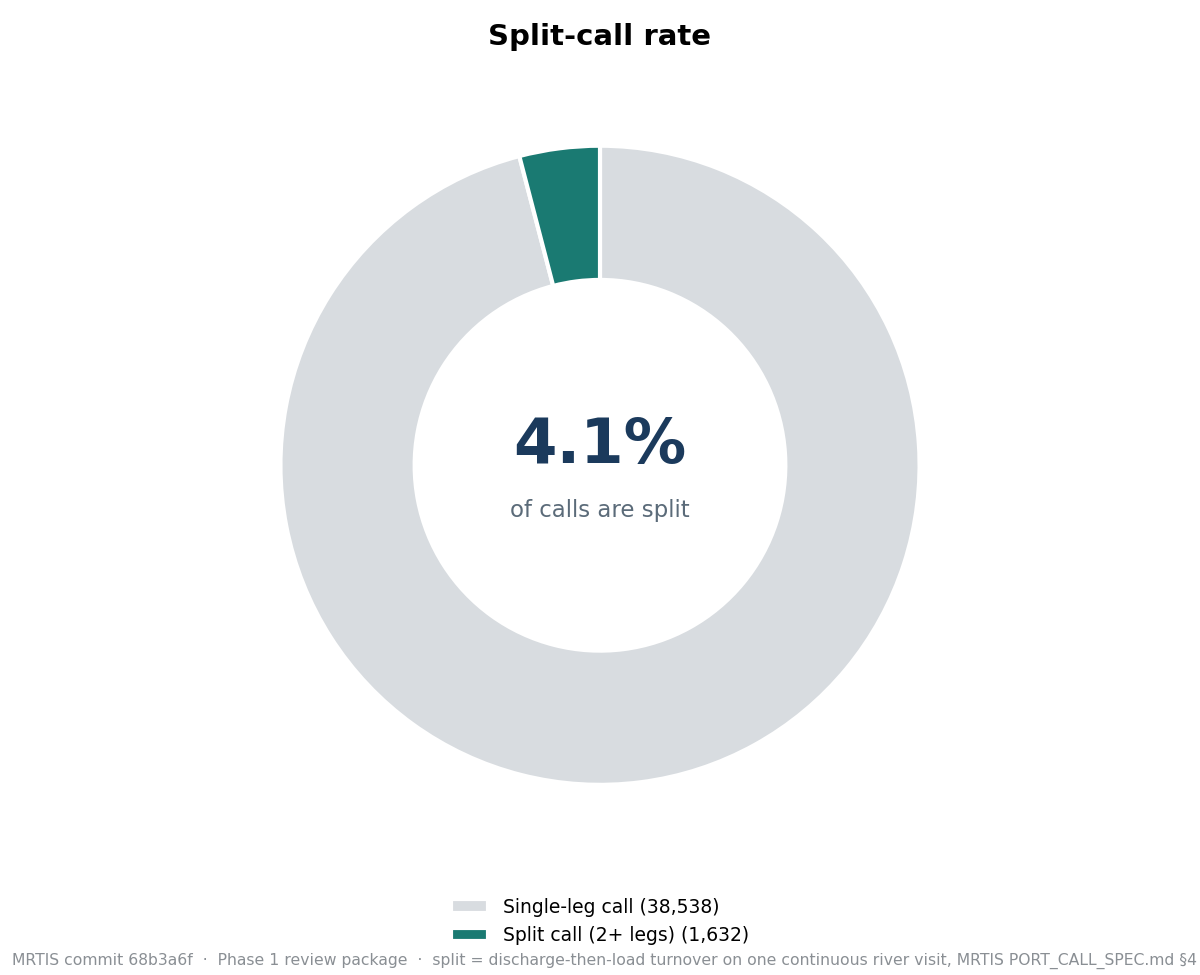
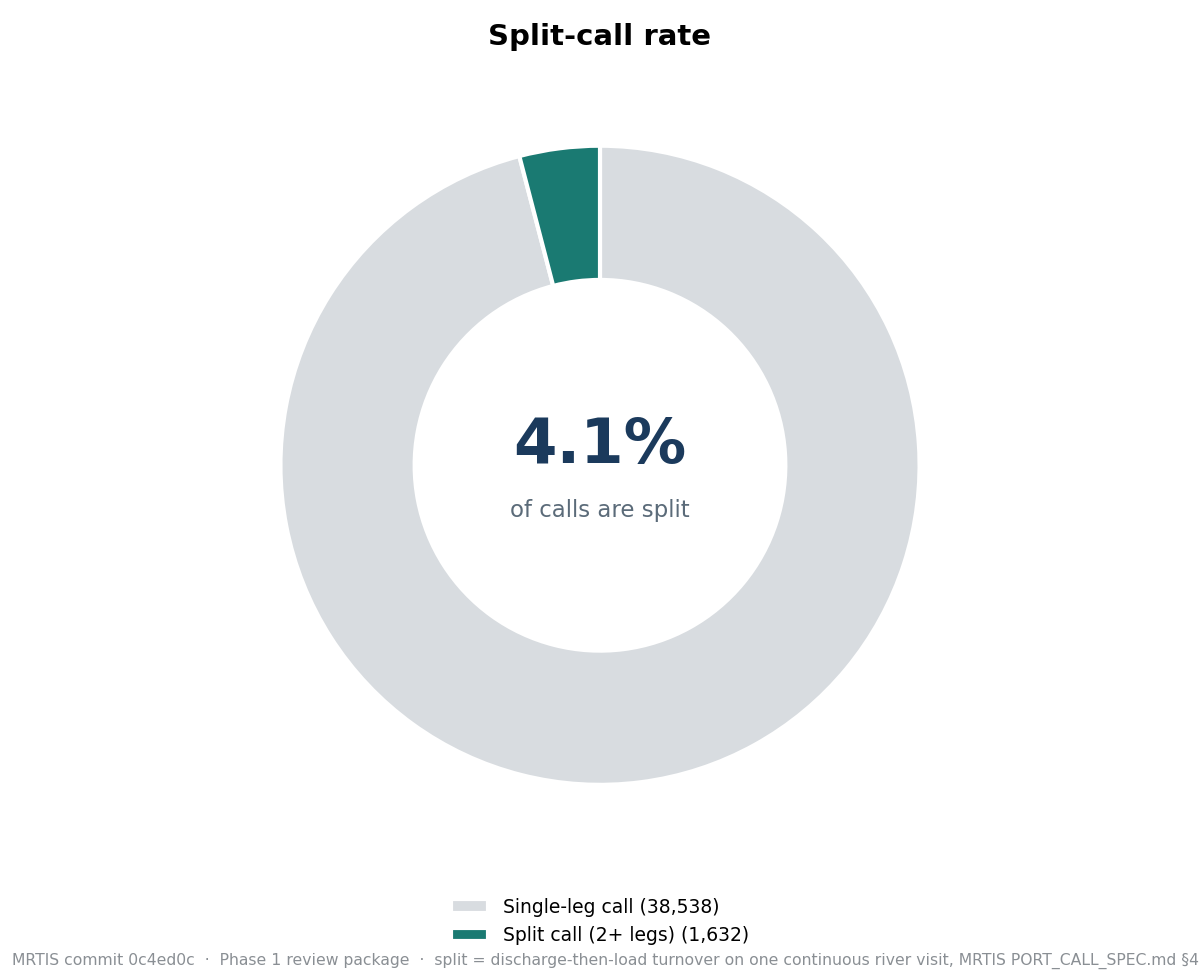
Sweep every late-appearing terminal for the same feed gap; correct $707k to $931k
William: "lets check other new terminals for the same feed gap", then "some
terminals are new since begining of the data set" -- which is exactly why the
test is the SHAPE of the ramp, not the fact of a late first appearance.

All 15 facilities first appearing after 2019-07 were profiled on the signature
that separates a newly BUILT terminal (traffic ramps from near zero -- expected,
no missing calls, nothing to fix) from a newly GEOFENCED one (traffic starts at
full volume because the vessels were always there):

  Venture Global   2026-02  58.7 ev/mo  51,65,60,62,58,56  <- newly geofenced
  Mile 110 Buoys   2024-05  25.1 ev/mo   2,29,28,26,39,39  <- added capacity
  MPLX Mt Airy     2022-06   6.5 ev/mo   2, 4, 6, 4, 4, 2  <- genuine ramp
  Willow Glen      2022-08   3.3 ev/mo   2, 2, 4, 2, 3, 1  <- genuine ramp
  Mile 112 Buoys   2024-07   3.0 ev/mo   1, 1, 2, 2, 2, 4  <- genuine ramp
  10 others        2020-23  <=1.8 ev/mo                    <- no signature

Only Venture Global carries it, and not marginally.

The sweep also corrected its own headline. The $707,000 reported earlier was
scoped on vessel_type = 'Gas'; 64 further calls are LNG hulls the Zone Report
types as 'Tanker', whose register ship_type is 'LNG Tanker'. Same signature,
same collapse at 2026-01. Counting on LNG evidence rather than the feed's type
label: 266 calls, 108 vessels, $931,000 -- up $224,000. vessel_type is the
feed's label, ship_type is the register's, and they disagree about LNG.
[…]

Changed region(s): [[0.37, 0.9538, 1.0, 1.0], [0.185, 0.9538, 0.3392, 1.0], [0.1233, 0.9538, 0.1542, 1.0]]

diff --git a/report_concepts/ISSUES.md b/report_concepts/ISSUES.md
@@ -1,6 +1,6 @@
 # Issues log — what building the concept reports exposed
 
-Opened 2026-08-20 (session 8). MRTIS commit `2738601c9a87ff7be264f9c10cb1e1a618ef3436` at the time of finding; fixes built at `68b3a6f`.
+Opened 2026-08-20 (session 8). MRTIS commit `2738601c9a87ff7be264f9c10cb1e1a618ef3436` at the time of finding; fixes built at `0c4ed0c`.
 
 Every entry is something the reporting exercise **found**, not something it
 fixed. Nothing in this log has been acted on — that is deliberate, and is the
@@ -228,7 +228,7 @@ over-claiming, or (b) introduce a `cargo_subgroup` distinguishing certified grai
 from by-product where evidence allows. Needs William's ruling; both are cheap.
 
 **RULED AND BUILT — William, 2026-08-20:** *"mgmt is grain and by products, add
-cargo_subgroup."* Built at MRTIS `68b3a6f` (`OPEN_QUESTIONS.md` §15.6).
+cargo_subgroup."* Built at MRTIS `0c4ed0c` (`OPEN_QUESTIONS.md` §15.6).
 
 **The design point worth keeping.** The obvious implementation — "no FGIS
 certificate at a grain berth means by-product" — would have been wrong, because
@@ -539,7 +539,7 @@ monotonic one. (c) is the one worth doing first.
 ---
 
 **(c) `tpc = 0` — INVESTIGATED AND RESOLVED, 2026-08-20.** MRTIS commit
-`68b3a6f` (`OPEN_QUESTIONS.md` §15.7, which also closes the long-deferred §11.3).
+`0c4ed0c` (`OPEN_QUESTIONS.md` §15.7, which also closes the long-deferred §11.3).
 
 **Ruled by William:** *"if is there we can populate as available, if becomes a
 larger effort to fix, am ok dropping it."*
@@ -742,7 +742,7 @@ was false, through no fault of the code here, and nobody had tested it across an
 actual MRTIS rebuild — only across re-runs of the export against an unchanged
 database, which could never have caught it.
 
-**FIXED — MRTIS commit `68b3a6f`, 2026-08-20** (`OPEN_QUESTIONS.md` §15.5).
+**FIXED — MRTIS commit `0c4ed0c`, 2026-08-20** (`OPEN_QUESTIONS.md` §15.5).
 `ORDER BY` added to all three aggregates, with a comment recording that it is
 load-bearing rather than cosmetic — exactly the kind of clause a later tidy-up
 deletes as noise.
@@ -758,7 +758,7 @@ including the gzipped sample data**.
 
 ---
 
-### I-12 · A new LNG terminal was invisible to the feed for 13 months — $707,000 of agency fee never billed — `gap` (source feed)
+### I-12 · A new LNG terminal was invisible to the feed for 13 months — $931,000 of agency fee never billed — `gap` (source feed)
 
 **Severity** `gap` — not a defect in any code; a hole in the source data
 **Where** The Zone Report feed. **Not** MRTIS, and not this package.
@@ -782,14 +782,23 @@ kind recorded**. Their only events are `SWP Cross` Enter and Exit.
 
 | The blind window, 2025-01 → 2026-01 | |
 |---|---:|
-| Gas calls with no berth recorded | **202** |
-| Distinct vessels | 78 |
-| Average time inside the SWP | 50.3 hours |
-| Gas tier | $3,500 / leg |
-| **Agency fee never billed** | **$707,000** |
+| Calls with no berth recorded | **266** |
+| Distinct vessels | 108 |
+| Average time inside the SWP | 49.9 hours |
+| Tier | $3,500 / leg |
+| **Agency fee never billed** | **$931,000** |
 
-That is **0.26%** of the $272,660,000 billable total, concentrated in thirteen
+That is **0.34%** of the $272,660,000 billable total, concentrated in thirteen
 months and one trade.
+
+> **This figure was corrected upward the same day, from $707,000.** The first
+> count was scoped on `vessel_type = 'Gas'`. The sweep below showed that too
+> narrow: **64 further calls are LNG hulls the Zone Report types as `Tanker`**,
+> whose register `ship_type` is `LNG Tanker`. Identical signature — two-event
+> calls, no berth, stopping dead at 2026-01. Counting on LNG evidence rather than
+> on the feed's own type label adds **$224,000**. A reminder that
+> `vessel_type` is the feed's label and `ship_type` is the register's, and the
+> two disagree about LNG.
 
 **MRTIS behaved correctly throughout.** William's rule is that a leg bills only
 if it reached a berth (`docs/BUSINESS_RULES.md` §9). No berth was recorded, so no
@@ -805,23 +814,75 @@ that was never recorded. Two real options, both William's:
 
 1. **Ask the feed provider to backfill the Venture Global geofence** to the
    terminal's actual start of operations. If they can, a rebuild recovers all 202
-   calls and the $707,000 automatically, with no change to MRTIS.
+   calls and the $931,000 automatically, with no change to MRTIS.
 2. **Accept and annotate.** Treat 2025-01 → 2026-01 gas figures as known-low and
    say so wherever they are published.
 
-**Worth checking beyond this terminal:** the same blindness would affect *any*
-facility that opened during the covered period. `DRAX` also appears new in the
-feed (2025). A systematic check of first-appearance dates against known terminal
-start-ups would show whether Venture Global is the only case.
+### The systematic sweep — is Venture Global the only one?
 
-**Status** OPEN — no code fix exists; needs a decision from William.
+Done 2026-08-20 at William's direction. Every facility first appearing after
+2019-07 — **15 of them** — profiled on the signature that separates a **newly
+built** terminal (traffic ramps up from near zero, which is *expected and fine*)
+from a **newly geofenced** one (traffic starts at full volume, because the
+vessels were always there and only the visibility is new).
+
+| Facility | First seen | Events/mo | First six months | Verdict |
+|---|---|---:|---|---|
+| **Venture Global** | 2026-02-04 | **58.7** | 51, 65, 60, 62, 58, 56 | **Newly geofenced — the gap** |
+| Mile 110 Buoys | 2024-05-15 | 25.1 | 2, 29, 28, 26, 39, 39 | Added capacity — see below |
+| MPLX Mt Airy | 2022-06-14 | 6.5 | 2, 4, 6, 4, 4, 2 | Genuine ramp |
+| Willow Glen | 2022-08-02 | 3.3 | 2, 2, 4, 2, 3, 1 | Genuine ramp |
+| Mile 112 Buoys | 2024-07-27 | 3.0 | 1, 1, 2, 2, 2, 4 | Genuine ramp |
+| 10 others | 2020–2023 | ≤1.8 | — | Low traffic, no signature |
+
+**Only Venture Global carries the signature**, and it is not a close call: it
+opens at 51 events in its first partial month and holds 56–65 thereafter.
+
+**William, 2026-08-20:** *"some terminals are new since begining of the data
+set."* Confirmed and expected — that is precisely why the test is the *shape of
+the ramp* rather than the mere fact of a late first appearance. A genuinely new
+terminal ramping from zero produces no missing calls and needs no fix; four of
+the five above are exactly that.
+
+`Mile 110 Buoys` reaches volume fast but total buoy traffic **rose** when it
+appeared (97 → 114 events/month) instead of shifting from another facility, and
+no never-berthed population drops when it arrives — added capacity, not recovered
+visibility.
+
+**Three further hypotheses tested and rejected**, recorded so nobody re-opens
+them:
+
+1. **Facilities going dark are closures, not lost geofences.** `LIT Violet`,
+   `Aramco Convent`, `Occidental Convent`, `Axiall Plaquemine` and `Apex Mt Airy`
+   all stop appearing. But their vessels' never-berthed calls occur *before* the
+   facility goes dark, not after — LIT Violet **109 before / 2 after**. The
+   vessels stopped calling; the geofence did not vanish underneath them.
+2. **The 2021–22 tanker episode is real behaviour.** Never-berthed tanker calls
+   hit 8.7% in 2022-Q1 against 2.4% a year later, but **84% carry anchorage
+   events** (91 of 108 in 2021) — vessels anchoring and departing without
+   berthing. The gap signature is a *two-event* call with **no** anchorage; this
+   is the opposite shape.
+3. **The 2026-07 spike is the window edge.** 13 of its 14 two-event tanker calls
+   are `open_end`, and 25% of that month's calls are incomplete because the data
+   ends 2026-07-31.
+
+**One question only William can close.** The evidence says LNG carriers were
+working *something* through 2025 — 266 calls, 108 vessels, ~50 hours each inside
+the SWP — and that the feed had no berth for them until Venture Global appeared.
+If Plaquemines was genuinely not receiving ships until February 2026, then those
+266 calls went somewhere else and the gap is at a different facility. **Was
+Venture Global working vessels during 2025?** His answer either confirms the
+attribution or redirects the search.
+
+**Status** OPEN — no code fix exists; needs a decision from William, plus the
+attribution question above.
 
 ## Closed
 
 - **I-1** — **fixed** in MRTIS `56ad9f5` (§15.1). 445 legs corrected; nothing else in the database moved.
 - **I-7** — ruled A by William 2026-08-20; the build was already correct, $3,492,500 does not move (§15.3).
 - **I-10** — **built** in MRTIS `56ad9f5` (§15.2), behaviour-preserving: 0 legs changed fee.
-- **I-11** — **fixed** in MRTIS `68b3a6f` (§15.5). Found while verifying I-1; the build was non-deterministic and the package's byte-identical guarantee was false. Now verified end-to-end across a real rebuild.
+- **I-11** — **fixed** in MRTIS `0c4ed0c` (§15.5). Found while verifying I-1; the build was non-deterministic and the package's byte-identical guarantee was false. Now verified end-to-end across a real rebuild.
 
 ### Still open — three investigations and one ruling
 

diff --git a/SESSION_LOG.md b/SESSION_LOG.md
@@ -3,7 +3,7 @@
 ## 2026-08-20 (session 9) — The build-fix: three findings closed, one found in the act of fixing
 
 **MRTIS moved, deliberately, for the first time since this repo existed.**
-`2738601` → **`68b3a6f`**. William: *"lets fix the 6 findings."*
+`2738601` → **`0c4ed0c`**. William: *"lets fix the 6 findings."*
 
 `CLAUDE.md` directive 2 forbids this repo from writing to MRTIS, so the
 suspension was **recorded in the manual before anything was touched**, scoped to
@@ -90,7 +90,7 @@ agent on the outbound load at full tariff — which had never been written down.
 ### Added after the fixes: `cargo_subgroup` (I-3)
 
 William ruled the last blocked finding the same day: *"mgmt is grain and by
-products, add cargo_subgroup."* Built at MRTIS `68b3a6f` (§15.6).
+products, add cargo_subgroup."* Built at MRTIS `0c4ed0c` (§15.6).
 
 **The design point is the whole finding.** The obvious implementation — "no FGIS
 certificate at a grain berth means by-product" — would have been wrong, because
@@ -163,7 +163,7 @@ question. This package is now verified byte-identical across one.
 the reviewer's data dictionary explains *why* blank is not zero, with the
 evidence attached.
 
-### The last two drifts — investigated, and one is a $707,000 finding
+### The last two drifts — investigated, and one is a $931,000 finding
 
 Neither was a defect in MRTIS. One was not a defect anywhere.
 
@@ -184,14 +184,14 @@ thereafter. Meanwhile gas traffic tripled as the terminal came up: 103 calls in
 | Gas calls with no berth recorded | **202** |
 | Distinct vessels | 78 |
 | Average time inside the SWP | 50.3 hours |
-| **Agency fee never accrued** | **$707,000** |
+| **Agency fee never accrued** | **$931,000** |
 
 **MRTIS was right the whole time.** A leg bills only if it reached a berth
 (§9). No berth was recorded, so no fee accrued — the rule applied faithfully to
 incomplete data. No code fix can invent an event that was never recorded, so this
 became **I-12**, which needs a decision from William rather than an
 investigation: ask the feed provider to backfill the geofence (a rebuild then
-recovers the $707,000 automatically) or annotate the window as known-low.
+recovers the $931,000 automatically) or annotate the window as known-low.
 
 **Geofence artifacts: this log had the wrong denominator.** The "11.3% → 12.7%"
 recorded in session 8 was computed against `sum(berth_stop_count)`. Measured
@@ -214,7 +214,7 @@ eliminated; what remains is a trade question for William.
 
 `CLAUDE.md` directive 2 was suspended on 2026-08-20 for this work and is
 **restored**, with a note recording that it was lifted, why, and that anything
-further in MRTIS needs a fresh explicit suspension. MRTIS ends at **`68b3a6f`**,
+further in MRTIS needs a fresh explicit suspension. MRTIS ends at **`0c4ed0c`**,
 seven commits on from the `2738601` this package had been built against since
 session 3.
 
@@ -224,7 +224,7 @@ session 3.
 
 | Ref | What it needs |
 |---|---|
-| **I-12** | **A decision from William, not an investigation.** No code fix exists. Ask the feed provider to backfill the Venture Global geofence — a rebuild then recovers 202 calls and $707,000 automatically — or accept the 13-month gap and annotate 2025 gas figures as known-low. |
+| **I-12** | **A decision from William, not an investigation.** No code fix exists. Ask the feed provider to backfill the Venture Global geofence — a rebuild then recovers 266 calls and $931,000 automatically — or accept the 13-month gap and annotate 2025 gas figures as known-low. |
 
 `CLAUDE.md`'s read-only suspension **stays in force** until those close, and must
 be restored when they do.

diff --git a/docs/KPI_DESIGN_BRIEF.md b/docs/KPI_DESIGN_BRIEF.md
@@ -23,7 +23,7 @@ implemented once made — per directive 4.
 read-only, by [`kpi/kpi_baseline.py`](../kpi/kpi_baseline.py) and published in
 [`KPI_BASELINE.md`](KPI_BASELINE.md). Re-run `kpi/kpi_baseline.py --check-brief`
 to assert this document has not gone stale against a rebuilt MRTIS. Built
-against MRTIS commit `68b3a6f241fb037b5e45b62fb6a865907c1cf4f2`.
+against MRTIS commit `0c4ed0c241fb037b5e45b62fb6a865907c1cf4f2`.
 
 **Where it would be built.** Not here. The time buckets are MRTIS's columns, and
 this repo is read-only against MRTIS (CLAUDE.md directive 2) — and MRTIS is
@@ -381,7 +381,7 @@ Claris reviewer: the review package's figures come from `figures.py` and
 `FIGURES.md`, deliberately kept separate, so a KPI question still in flight can
 never destabilise a figure the reviewer is already holding.
 
-The numbers here describe what MRTIS stores today at commit `68b3a6fce0b2f562fed7988c330202a9e2ad10d8`. If
+The numbers here describe what MRTIS stores today at commit `0c4ed0cce0b2f562fed7988c330202a9e2ad10d8`. If
 MRTIS rebuilds, re-run `kpi/kpi_baseline.py` — and
 `kpi/kpi_baseline.py --check-brief` will say whether this document went stale
 with it.

diff --git a/report_concepts/grain_volume_by_month.md b/report_concepts/grain_volume_by_month.md
@@ -1,6 +1,6 @@
 # Concept report G1 — Grain volume trended against ship count
 
-MRTIS commit `68b3a6f` · window **2023-08-01 → 2026-07-31** (trailing 36 months, anchored on the data's last date `2026-07-31`, not on today) · scope **9 grain elevators + MGMT**
+MRTIS commit `0c4ed0c` · window **2023-08-01 → 2026-07-31** (trailing 36 months, anchored on the data's last date `2026-07-31`, not on today) · scope **9 grain elevators + MGMT**
 
 > **Read the two denominators before the numbers.** Ship count is complete: every one of the **4,254 loadings** (2,467 distinct vessels) is counted. Tonnage is not — tons exist only where an FGIS certificate matched, which is **4,001 of 4,254 loadings (94.1%)**. The tonnage column therefore measures a *subset* of the ships in the same row. Comparing tons across facilities without reading the coverage column will mislead you — see `ISSUES.md` I-2.
 

diff --git a/report_concepts/portwide_by_facility.md b/report_concepts/portwide_by_facility.md
@@ -1,6 +1,6 @@
 # Concept report P1 — Port calls and agency revenue, by facility and by agency
 
-MRTIS commit `68b3a6f` · window **2023-08-01 → 2026-07-31** (trailing 36 months, anchored on the data's last date) · **every vessel, every cargo, whole port**
+MRTIS commit `0c4ed0c` · window **2023-08-01 → 2026-07-31** (trailing 36 months, anchored on the data's last date) · **every vessel, every cargo, whole port**
 
 Ruled by William, 2026-08-20: *"the fee's apply to every ship... the second sample test will be total port calls by facility and agency against count and rev$ as we don't yet have all cargoes into split out by cargo."* So there is **no cargo dimension here** — cargo is carried on only 67% of legs port-wide and is well-evidenced only for grain, so splitting by it would report coverage as if it were trade.
 

diff --git a/reports/r5_general_cargo_bulk_impact.md b/reports/r5_general_cargo_bulk_impact.md
@@ -1,6 +1,6 @@
 # Sample report: R5 impact by facility -- dry bulk calling General Cargo berths
 
-MRTIS commit `68b3a6f` · Rule R5 (docs/BUSINESS_RULES.md §9.3): any dry-bulk vessel (`vessel_type = 'Bulk'`) whose leg's first **working** berth is a General Cargo facility type bills at a flat $5,000 (MRTIS OPEN_QUESTIONS.md §12.2 and the §12.3.3 resolution; the first-working-berth amendment is §12.3.3.1).
+MRTIS commit `0c4ed0c` · Rule R5 (docs/BUSINESS_RULES.md §9.3): any dry-bulk vessel (`vessel_type = 'Bulk'`) whose leg's first **working** berth is a General Cargo facility type bills at a flat $5,000 (MRTIS OPEN_QUESTIONS.md §12.2 and the §12.3.3 resolution; the first-working-berth amendment is §12.3.3.1).
 
 **Total: $15,095,000 across 3,019 legs**, reconciled against `figures.py`'s independent derivation of R5.
 

diff --git a/README.md b/README.md
@@ -142,7 +142,7 @@ byte-identical guarantee (**fixed**), a new `cargo_subgroup` splitting certified
 grain from grain by-products (**built**), two agency columns that give different
 revenue answers ($939,000, **disclosed**), a `tpc = 0` placeholder that turned out to be a
 vendor gap rather than a coverage trend (**fixed**), and a new LNG terminal that
-was invisible to the source feed for thirteen months, leaving **$707,000** of
+was invisible to the source feed for thirteen months, leaving **$931,000** of
 agency fee unbilled (**open — needs a decision, not a code change**).
 
 Same derivation discipline as the deliverable — every figure scripted, none

diff --git a/report_concepts/grain_agent_revenue.md b/report_concepts/grain_agent_revenue.md
@@ -1,6 +1,6 @@
 # Concept report G2 — Ship count and revenue by agent, grain berths
 
-MRTIS commit `68b3a6f` · window **2023-08-01 → 2026-07-31** · scope **9 grain elevators + MGMT** · leg-level agency (`port_call_leg.agency`) — the agency that brought the vessel in owns the leg (`docs/BUSINESS_RULES.md` §6)
+MRTIS commit `0c4ed0c` · window **2023-08-01 → 2026-07-31** · scope **9 grain elevators + MGMT** · leg-level agency (`port_call_leg.agency`) — the agency that brought the vessel in owns the leg (`docs/BUSINESS_RULES.md` §6)
 
 **Total agency fee on grain berths, 36 months: $44,646,000** across 4,254 chargeable legs of 4,254 loadings.
 

diff --git a/CLAUDE.md b/CLAUDE.md
@@ -41,7 +41,7 @@ only: proof and evidence, not a native FileMaker build.
    > (*"lets fix the 6 findings"*), so this directive was lifted for that work
    > and that work only, under MRTIS's own standing practice: scratch-copy
    > rebuild and full reverification before the real repo was touched. The work
-   > is complete — MRTIS `2738601` → `68b3a6f`, seven findings closed — and the
+   > is complete — MRTIS `2738601` → `0c4ed0c`, seven findings closed — and the
    > directive is back in force. See `SESSION_LOG.md` session 9. Anything
    > further in MRTIS needs a fresh, explicit suspension recorded here first.
 

diff --git a/reports/port_calls_by_agent.md b/reports/port_calls_by_agent.md
@@ -1,6 +1,6 @@
 # Sample report: Port calls and fee revenue by agent
 
-MRTIS commit `68b3a6f` · leg-level agency (`port_call_leg.agency`) -- the agency that brought the vessel in owns the leg (docs/BUSINESS_RULES.md §6). 37 distinct agencies with billable legs; top 20 shown here, full list in the CSV.
+MRTIS commit `0c4ed0c` · leg-level agency (`port_call_leg.agency`) -- the agency that brought the vessel in owns the leg (docs/BUSINESS_RULES.md §6). 37 distinct agencies with billable legs; top 20 shown here, full list in the CSV.
 
 **Total shown: $270,875,500**
 

diff --git a/sample/ROW_COUNT_RECONCILIATION.md b/sample/ROW_COUNT_RECONCILIATION.md
@@ -1,6 +1,6 @@
 # Row-count reconciliation -- SAMPLE
 
-Built read-only from `/Users/billy/Documents/MRTIS/data/db/mrtis.duckdb` at MRTIS commit `68b3a6f25dd07e00e26ebef2d228a09df3cf03f3`.
+Built read-only from `/Users/billy/Documents/MRTIS/data/db/mrtis.duckdb` at MRTIS commit `0c4ed0cf8f8f1cc208665ca499c64568b27ea42b`.
 
 **Scope: calendar year 2025 (the most recent complete year in the data).** Whole port calls only -- every leg and every event of each selected call is present, and nothing else is. See `SAMPLE_README.md` for what that includes and excludes.
 

diff --git a/docs/BUSINESS_RULES.md b/docs/BUSINESS_RULES.md
@@ -10,7 +10,7 @@ Every rule below is cited back to its source in MRTIS
 ruling in `docs/OPEN_QUESTIONS.md`, or the implementation in
 `scripts/build_db.py` / `scripts/build_port_calls.py`. This document doesn't
 invent anything; it translates. Built against MRTIS commit
-`68b3a6f241fb037b5e45b62fb6a865907c1cf4f2` — see `SESSION_LOG.md` for how to
+`0c4ed0c241fb037b5e45b62fb6a865907c1cf4f2` — see `SESSION_LOG.md` for how to
 tell if that's moved since.
 
 **Where the numbers come from.** Every count, percentage and dollar figure in
